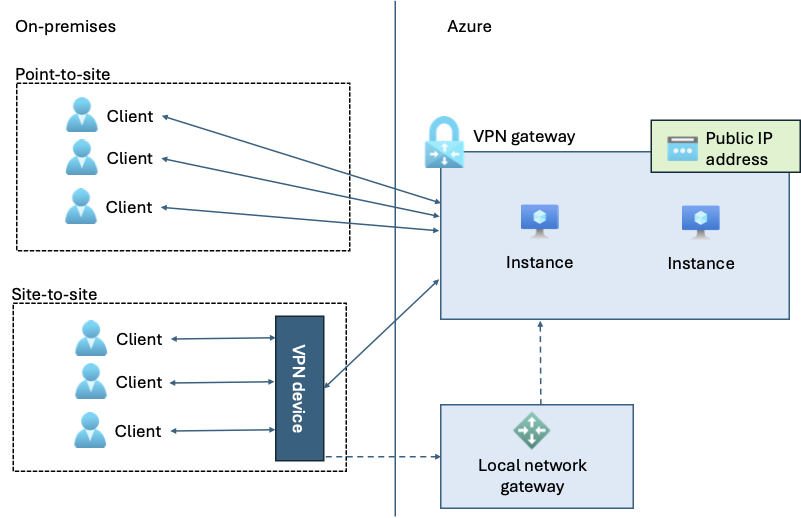
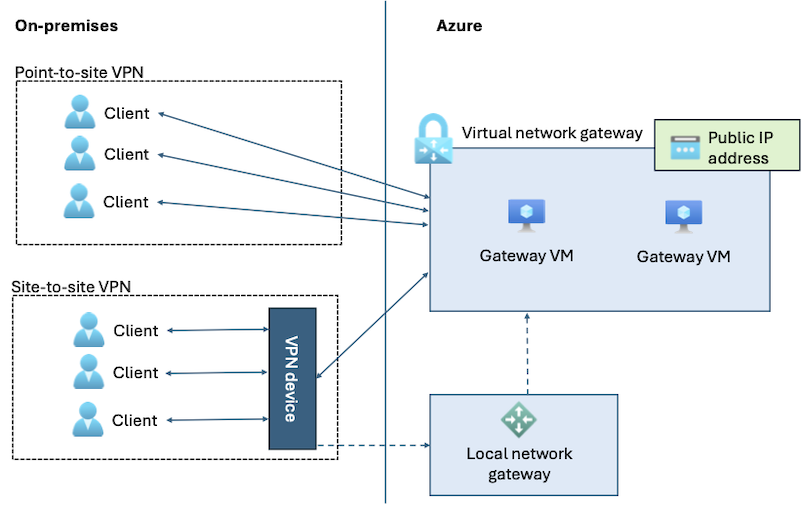
Update terminology

diff --git a/articles/reliability/reliability-virtual-network-gateway.md b/articles/reliability/reliability-virtual-network-gateway.md
@@ -110,21 +110,21 @@ The following diagram illustrates some key components in a VPN that connects fro
 
 ::: zone pivot="expressroute"
 
-An ExpressRoute gateway contains two or more *instances*, which represent virtual machines (VMs) that your gateway uses to process ExpressRoute traffic.
+An ExpressRoute gateway contains two or more *gateway virtual machines (VMs)*, which are the underlying VMs that your gateway uses to process ExpressRoute traffic.
 
 ::: zone-end
 
 ::: zone pivot="vpn"
 
-A VPN virtual network gateway contains exactly two *instances*, which represent virtual machines (VMs) that your gateway uses to process VPN traffic.
+A VPN virtual network gateway contains exactly two *gateway virtual machines (VMs)*, which are the underlying VMs that your gateway uses to process VPN traffic.
 
 ::: zone-end
 
-You don't see or manage the VMs directly. The platform automatically manages instance creation, health monitoring, and the replacement of unhealthy instances. To achieve protection against server and server rack failures, Azure automatically distributes gateway instances across multiple fault domains within a region. If a server rack fails, the gateway instance is automatically migrated to another cluster by the Azure platform.
+You don't see or manage the gateway VMs directly. The platform automatically manages gateway VM creation, health monitoring, and the replacement of unhealthy gateway VMs. To achieve protection against server and server rack failures, Azure automatically distributes gateway VMs across multiple fault domains within a region. If a server rack fails, any gateway VM on that cluster is automatically migrated to another cluster by the Azure platform.
 
 ::: zone pivot="expressroute"
 
-You configure the gateway SKU. Each SKU supports a different level of throughput, and a different number of circuits. When you use the ErGwScale SKU (preview), ExpressRoute automatically scales the gateway by adding more instances. For more information, see [About ExpressRoute virtual network gateways](../expressroute/expressroute-about-virtual-network-gateways.md).
+You configure the gateway SKU. Each SKU supports a different level of throughput, and a different number of circuits. When you use the ErGwScale SKU (preview), ExpressRoute automatically scales the gateway by adding more gateway VMs. For more information, see [About ExpressRoute virtual network gateways](../expressroute/expressroute-about-virtual-network-gateways.md).
 
 A gateway runs in *active-active* mode by default, which supports high availability of your circuit. You can optionally switch to use *active-passive* mode, but this configuration increases the risk of a failure affecting your connectivity. For more information, see [Active-active connections](../expressroute/designing-for-high-availability-with-expressroute.md#active-active-connections).
 
@@ -136,11 +136,11 @@ Ordinarily, traffic is routed through your virtual network gateway. However, if 
 
 You configure the gateway SKU. Each SKU supports a different level of throughput, and a different number of VPN connections. For more information, see [About gateway SKUs](../vpn-gateway/about-gateway-skus.md).
 
-Depending on your high availability requirements, you can configure your gateway as *active-standby*, which means that one instance processes traffic and the other is a standby instance, or as *active-active*, which means that both instances process traffic. Active-active isn't always possible due to the asymmetric nature of connection flows. For more information, see [Design highly available gateway connectivity for cross-premises and VNet-to-VNet connections](../vpn-gateway/vpn-gateway-highlyavailable.md).
+Depending on your high availability requirements, you can configure your gateway as *active-standby*, which means that one gateway VM processes traffic and the other is a standby gateway VM, or as *active-active*, which means that both gateway VMs process traffic. Active-active isn't always possible due to the asymmetric nature of connection flows. For more information, see [Design highly available gateway connectivity for cross-premises and VNet-to-VNet connections](../vpn-gateway/vpn-gateway-highlyavailable.md).
 
 ::: zone-end
 
-You can protect against availability zone failures by distributing gateway instances across multiple zones, providing automatic failover within the region, and maintaining connectivity during zone maintenance or outages. For more information, see [Resilience to availability zone failures](#resilience-to-availability-zone-failures).
+You can protect against availability zone failures by distributing gateway VMs across multiple zones, providing automatic failover within the region, and maintaining connectivity during zone maintenance or outages. For more information, see [Resilience to availability zone failures](#resilience-to-availability-zone-failures).
 
 ## Resilience to transient faults
 
@@ -184,13 +184,13 @@ Transient faults can sometimes affect IPsec tunnels or TCP data flows. In the ev
 
 [!INCLUDE [Resilience to availability zone failures](includes/reliability-availability-zone-description-include.md)]
 
-Virtual network gateways are automatically *zone-redundant* when they meet the requirements. Zone redundancy means that the gateway's instances are automatically distributed across multiple availability zones. This configuration eliminates any single zone as a point of failure and provides the highest level of zone resiliency. Zone-redundant gateways provide automatic failover within the region, and maintain connectivity during zone maintenance or outages.
+Virtual network gateways are automatically *zone-redundant* when they meet the requirements. Zone redundancy means that the gateway VMs are automatically distributed across multiple availability zones. This configuration eliminates any single zone as a point of failure and provides the highest level of zone resiliency. Zone-redundant gateways provide automatic failover within the region, and maintain connectivity during zone maintenance or outages.
 
 When you use a [supported SKU](#requirements), any newly created gateway is automatically zone-redundant. Zone redundancy is recommended for all production workloads.
 
-The following diagram shows a zone-redundant virtual network gateway with two instances that are distributed across different availability zones:
+The following diagram shows a zone-redundant virtual network gateway with two gateway VMs that are distributed across different availability zones:
 
-:::image type="content" source="media/reliability-virtual-network-gateway/zone-redundant.png" alt-text="Diagram that shows a virtual network gateway with two instances distributed across availability zones." border="false":::
+:::image type="content" source="media/reliability-virtual-network-gateway/zone-redundant.png" alt-text="Diagram that shows a virtual network gateway with two gateway VMs distributed across availability zones." border="false":::
 
 ::: zone pivot="expressroute"
 
@@ -282,7 +282,7 @@ The following section describes what to expect when your virtual network gateway
 
 ::: zone pivot="expressroute"
 
-- **Traffic routing between zones:** Traffic from your on-premises environment is distributed among instances in all of the zones that your gateway uses. This active-active configuration ensures optimal performance and load distribution under normal operating conditions.
+- **Traffic routing between zones:** Traffic from your on-premises environment is distributed among gateway VMs in all of the zones that your gateway uses. This active-active configuration ensures optimal performance and load distribution under normal operating conditions.
 
     However, if you use FastPath for optimized performance, traffic from your on-premises environment bypasses the gateway, which improves throughput and reduces latency. For more information, see [About ExpressRoute FastPath](../expressroute/about-fastpath.md).
 
@@ -292,13 +292,13 @@ The following section describes what to expect when your virtual network gateway
 
 ::: zone pivot="vpn"
 
-- **Traffic routing between zones:** Zone redundancy doesn't affect how traffic is routed. Traffic is routed between the instances of your gateway based on the configuration of your clients. If your gateway uses active-active configuration and uses two public IP addresses, both gateway instances might receive traffic, and for active-standby configuration, traffic is routed to a single primary instance selected by Azure.
+- **Traffic routing between zones:** Zone redundancy doesn't affect how traffic is routed. Traffic is routed between the gateway VMs of your gateway based on the configuration of your clients. If your gateway uses active-active configuration and uses two public IP addresses, both gateway VMs might receive traffic, and for active-standby configuration, traffic is routed to a single primary gateway VM selected by Azure.
 
-- **Data replication between zones:** Azure VPN Gateway doesn't need to synchronize connection state across availability zones. In active-active mode, the instance that processes the VPN connection is responsible for managing the connection's state.
+- **Data replication between zones:** Azure VPN Gateway doesn't need to synchronize connection state across availability zones. In active-active mode, the gateway VM that processes the VPN connection is responsible for managing the connection's state.
 
 ::: zone-end
 
-- **Instance management:** The platform automatically selects the zones for your gateway instances, and manages instance placement across the zones. Health monitoring ensures that only healthy instances receive traffic.
+- **Gateway VM management:** The platform automatically selects the zones for your gateway VMs, and manages placement across the zones. Health monitoring ensures that only healthy gateway VMs receive traffic.
 
 ### Behavior during a zone failure
 
@@ -308,7 +308,7 @@ The following section describes what to expect when your virtual network gateway
 
 [!INCLUDE [Availability zone down notification (Service Health and Resource Health)](./includes/reliability-availability-zone-down-notification-service-resource-include.md)]
 
-- **Active requests:** Any active requests connected through gateway instances in the failing zone are terminated. Client applications should retry the requests by following the guidance for how to [handle transient faults](#resilience-to-transient-faults).
+- **Active requests:** Any active requests connected through gateway VMs in the failing zone are terminated. Client applications should retry the requests by following the guidance for how to [handle transient faults](#resilience-to-transient-faults).
 
 - **Expected data loss:** Zone failures aren't expected to cause data loss because virtual network gateways don't store persistent customer data.
 
@@ -319,7 +319,7 @@ The following section describes what to expect when your virtual network gateway
 
 ::: zone pivot="expressroute"
 
-- **Traffic rerouting:** The platform automatically distributes traffic to instances in healthy zones.
+- **Traffic rerouting:** The platform automatically distributes traffic to gateway VMs in healthy zones.
 
     FastPath-enabled connections maintain optimized routing throughout the failover process, ensuring minimal effect on application performance.
 
@@ -327,13 +327,13 @@ The following section describes what to expect when your virtual network gateway
 
 ::: zone pivot="vpn"
 
-- **Traffic rerouting:** Traffic automatically reroutes to the other instance, which is in a different availability zone.
+- **Traffic rerouting:** Traffic automatically reroutes to the other gateway VM, which is in a different availability zone.
 
 ::: zone-end
 
 ### Zone recovery
 
-When the affected availability zone recovers, Azure automatically restores any gateway instances in the recovered zone, and returns to normal traffic distribution across all zones that the gateway uses.
+When the affected availability zone recovers, Azure automatically restores any gateway VMs in the recovered zone, and returns to normal traffic distribution across all zones that the gateway uses.
 
 ### Test for zone failures
 
@@ -374,7 +374,7 @@ You can deploy separate VPN Gateways in two or more different regions. However, 
 
 Azure performs regular maintenance on virtual network gateways to ensure optimal performance and security. During these maintenance windows, some service disruptions can occur, but Azure designs these activities to minimize effect on your connectivity. 
 
-During planned maintenance operations on virtual network gateways, the process is executed on gateway instances sequentially, never simultaneously. This process ensures that there's always one gateway instance active during maintenance, minimizing the impact on your active connections.
+During planned maintenance operations on virtual network gateways, the process is executed on gateway VMs sequentially, never simultaneously. This process ensures that there's always one gateway VM active during maintenance, minimizing the impact on your active connections.
 
 You can configure gateway maintenance windows to align with your operational requirements, reducing the likelihood of unexpected disruptions.
 
